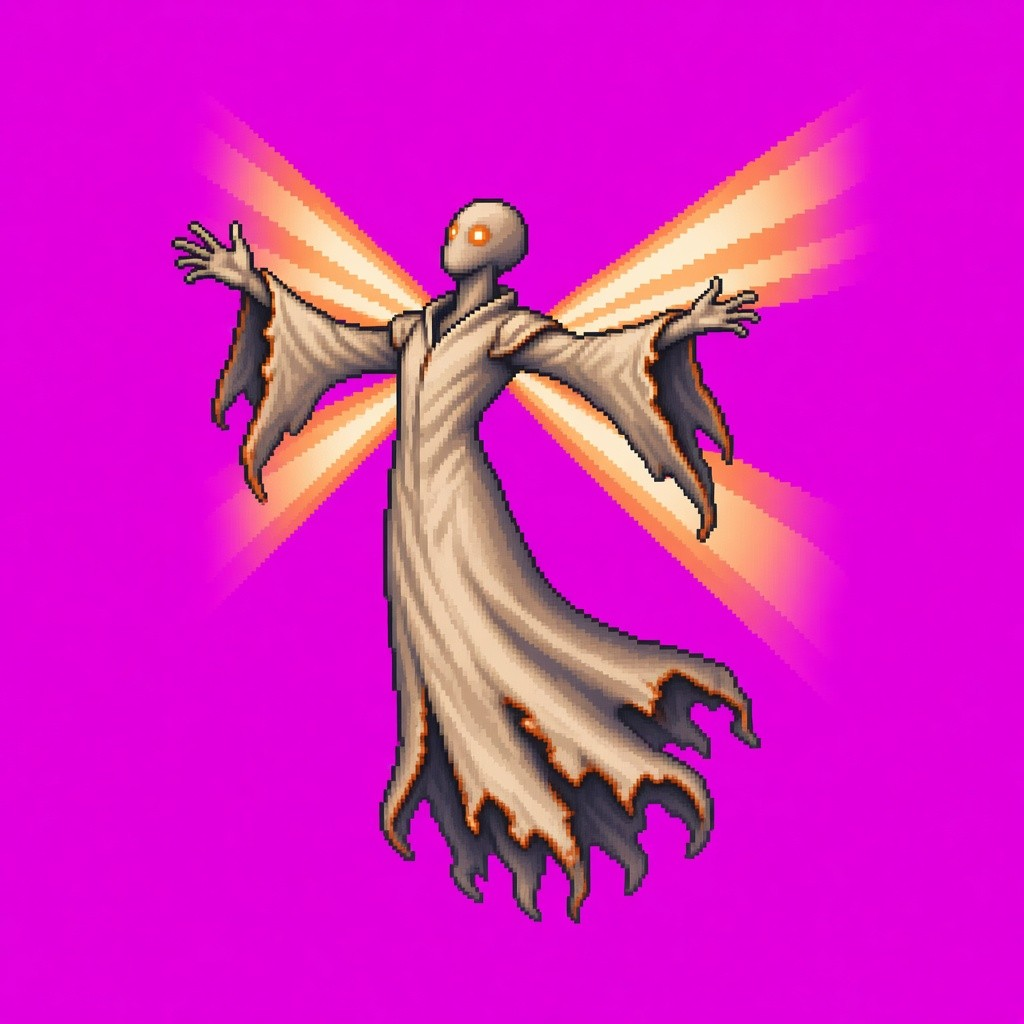
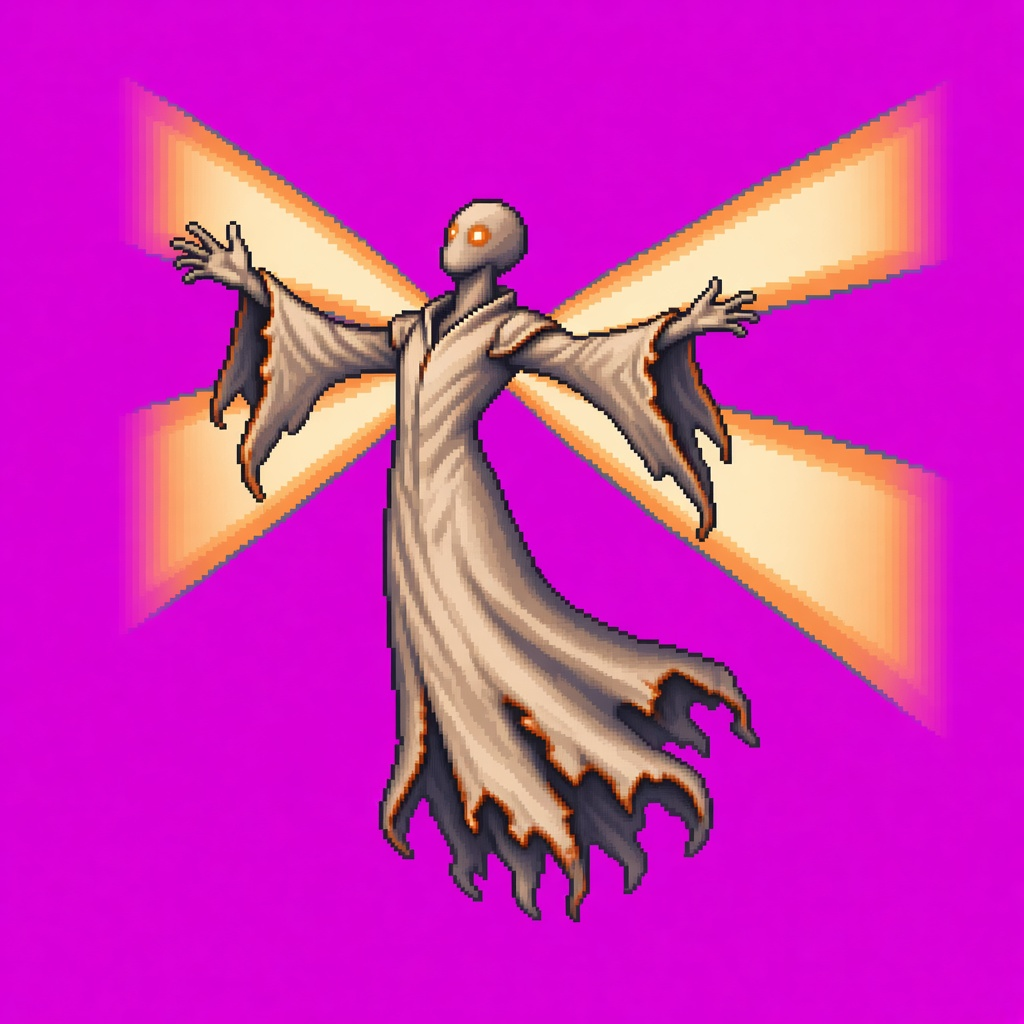
GA Nachbesserung 2: Engel 2 mit Türflügeln, Engel 1 breiter, Heilige (Schlüssel/Echo liegend, Waage-Parierstück, Echo-Schwert) (#527)

diff --git a/tools/art/nachbesserung/vorschau.py b/tools/art/nachbesserung/vorschau.py
@@ -1,7 +1,7 @@
 """Vorschauen 'Vorlage | alt | neu' (3x, nearest) für alle geänderten Blätter der Nachbesserungsrunde.
 Je Blatt eine Zeile mit drei Feldern; je Feld bis zu vier repräsentative Frames (erster, Angriff/Mitte, vorletzte Reihe, letzter belegter).
 Vollbilder (fx/HG_aufstieg_*): Vorlage = HG_aufstieg_1 auf origin/main, je Feld Frames 0, 2, 5 (die korrigierten Frames 2 und 5).
-Ausgabe: docs/art/nachbesserung-preview-{aufstieg,bosse,heilige}.png"""
+Ausgabe: docs/art/<PREFIX>-preview-{aufstieg,bosse,heilige}.png (PREFIX = 1. Argument, Standard nachbesserung)"""
 import sys, io, json, glob, subprocess
 import numpy as np
 from PIL import Image, ImageDraw
@@ -44,7 +44,7 @@ def row(rel, scale=S):
         pk = [(0, 0), (0, 2), (0, 5)]; ta = idx.get(tpl_rel, a)
         tpl = load(f'public/sprites/{tpl_rel}', BASE)
     else:
-        pk = picks(new, a); tpl = load(f'public/sprites/{tpl_rel}') if tpl_rel else None; ta = idx.get(tpl_rel, a)
+        pk = [(0, 0), (1, 3), (5, 3), (5, 5)] if 'heiliger' in rel and PREFIX != 'nachbesserung' else picks(new, a); tpl = load(f'public/sprites/{tpl_rel}') if tpl_rel else None; ta = idx.get(tpl_rel, a)
     parts = [strip(cells(tpl, ta, pk), scale) if tpl is not None else strip([], scale), strip(cells(old, a, pk), scale), strip(cells(new, a, pk), scale)]
     W = sum(p.width for p in parts) + 2*SEP*2; H = max(p.height for p in parts) + 16
     im = Image.new('RGBA', (W, H), (30, 30, 40, 255)); d = ImageDraw.Draw(im); x = 0
@@ -53,11 +53,14 @@ def row(rel, scale=S):
     d.text((W - 6*len(rel) - 4, 2), rel, fill=(240, 206, 128, 255))
     return im
 def sheet(rels, out, scale=S):
+    if not rels: return
+    out = out.replace('nachbesserung-', PREFIX + '-')
     rows = [row(r, scale) for r in rels]
     W = max(r.width for r in rows); H = sum(r.height for r in rows) + SEP*len(rows)
     im = Image.new('RGBA', (W, H), (20, 20, 28, 255)); y = 0
     for r in rows: im.alpha_composite(r, (0, y)); y += r.height + SEP
     im.convert('RGB').save(f'{ROOT}/docs/art/{out}', optimize=True); print(out, im.size)
+PREFIX = sys.argv[1] if len(sys.argv) > 1 else 'nachbesserung'  # z. B. nachbesserung2
 changed = [f[len('public/sprites/'):] for f in git('diff', '--name-only', BASE).decode().split() if f.startswith('public/sprites/') and f.endswith('.png')]
 sheet([r for r in changed if r.startswith('fx/')], 'nachbesserung-preview-aufstieg.png')
 sheet([r for r in changed if not r.startswith('fx/') and 'heiliger' not in r], 'nachbesserung-preview-bosse.png')

diff --git a/tools/art/nachbesserung/heilige_nb.py b/tools/art/nachbesserung/heilige_nb.py
@@ -42,17 +42,27 @@ figures._cache = lambda key, fn: _cache('nb|' + key + '|' + str(MERGED / key.spl
 FADEN_DEF = [['hurt.pulse_down1', 'hurt.leanL2', 'hurt.up2'], ['hurt.leanR2', 'hurt.pulse_leanR'], ['hurt.pulse_leanL', 'hurt.down2'],
              ['defeated.up4'], ['defeated.up4_leanL'], ['defeated.pulse_up4']]
 
+# Seit Nachbesserung 2 liegen auch Schlüssel (angelehnt) und Echo (flach) im defeated; Echo wie Faden mit Hüftzeilen.
+LYING = ('faden', 'echo')  # Schlüssel liegt angelehnt und ist hoch genug (65 px), braucht keine Hüftzeilen
+# Echo: das flache Liegen ist nur 42 px hoch, die kniende Vorlage in defeated 4-6 um 62 px – die 85-%-Regel ist dort mit einer liegenden
+# Figur nicht erreichbar. Auf Wunsch (liegen statt sitzen) werden diese drei Frames trotzdem mit der liegenden Pose belegt und offen als
+# Kern-Box-Fehler gemeldet (kein Füllmittel, kein Ausweichen auf hurt).
+FORCE_LYING = {'echo'}
 if __name__ == '__main__':
     paths = sys.argv[1:] or figures.PATHS
     ROWS0 = dict(figures.ROWS)
     for p in paths:
         figures.ROWS.clear(); figures.ROWS.update(ROWS0)
-        if p == 'faden':
+        if p in LYING:
             figures.VARIANTS.update({'up4': lambda m: figures.bob(m, -4), 'up4_leanL': lambda m: figures.lean(figures.bob(m, -4), -1),
                                      'pulse_up4': lambda m: figures.recolor(figures.bob(m, -4), figures.PULSE)})
             figures.ROWS['defeated'] = FADEN_DEF
+        RP0 = dict(figures.ROW_POSES)
+        if p in FORCE_LYING: figures.ROW_POSES['defeated'] = ['defeated']
         p_, s, D, F, FAIL, tq, tqfix = E.build(p)
-        if FAIL: print('FAIL', p, FAIL); continue
+        figures.ROW_POSES.clear(); figures.ROW_POSES.update(RP0)
+        if p in FORCE_LYING and FAIL and all(r == 5 and c >= 3 for r, c, _ in FAIL): print('bewusst unter 85 % (liegend):', p, FAIL)
+        elif FAIL: print('FAIL', p, FAIL); continue
         used = E.sheet_palette(s)
         E.save_indexed(s, used, E.SPR / f'battle/enemy_hs_heiliger_{p}.png')
         print('ok', p, F, len(used), tq, tqfix, {k: v for k, v in D.items() if k[0] in (1, 5)})

diff --git a/tools/art/nachbesserung/engel_gross.py b/tools/art/nachbesserung/engel_gross.py
@@ -11,7 +11,7 @@ sys.path.insert(0, str(HERE.parent / 'engel'))
 import base, figures, export as E
 
 NB = base.ROOT / 'docs/art/nachbesserung-raw'
-FACT = {'engel_1': int(sys.argv[2]) if len(sys.argv) > 2 else 9, 'engel_2': 9, 'engel_3': int(sys.argv[1]) if len(sys.argv) > 1 else 7}
+FACT = {'engel_1': int(sys.argv[2]) if len(sys.argv) > 2 else 9, 'engel_2': int(sys.argv[3]) if len(sys.argv) > 3 else 9, 'engel_3': int(sys.argv[1]) if len(sys.argv) > 1 else 7}
 def raw(fig, pose):
     p = NB / f'{fig}_kampf_{pose}.jpg'
     return p if p.exists() else base.RAW / f'{fig}_kampf_{pose}.jpg'

diff --git a/docs/art/README.md b/docs/art/README.md
@@ -2233,3 +2233,12 @@ Geliefert von Grok als Zip mit Patch (Branch `art/nachbesserung`). Raster, Reihe
 - Konzepte: `docs/art/nachbesserung-raw/`, Prompts: `tools/art/nachbesserung/prompts.json`
 - Prüfung: `python3 tools/art/nachbesserung/check.py` (Kern-Box >= 85 % der Vorlage als harter Fehler)
 - Vorschauen „Vorlage | alt | neu“ (3x): [Aufstieg](nachbesserung-preview-aufstieg.png) · [Bosse/Endgestalt](nachbesserung-preview-bosse.png) · [Heilige](nachbesserung-preview-heilige.png)
+
+## Nachbesserung 2 (letzte Etappe)
+
+Geliefert von Grok als Zip mit Patch (Branch `art/nachbesserung2`). Raster und Dateinamen unverändert, keine Manifest- oder Code-Änderung.
+
+- Engel 2 mit massiven Türflügeln (neue Konzepte idle/attack1/strike/attack2/special), Engel 1 mit breiteren Lichtschwingen (idle/attack1/attack2/special): `python3 tools/art/nachbesserung/engel_gross.py 8 9 9`
+- Heilige: Schlüssel liegt angelehnt, Echo liegt flach (defeated), Waage-Schwert mit Parierstück in Waagenform, Echo mit geradem Glasschwert statt Trompetenklinge: `python3 tools/art/nachbesserung/heilige_nb.py echo schluessel sq_waage`
+- Prompts: `tools/art/nachbesserung/prompts.json` → `nachbesserung2`
+- Vorschauen „Vorlage | alt | neu“ (3x): [Engel](nachbesserung2-preview-bosse.png) · [Heilige](nachbesserung2-preview-heilige.png) (`python3 tools/art/nachbesserung/vorschau.py nachbesserung2`)
